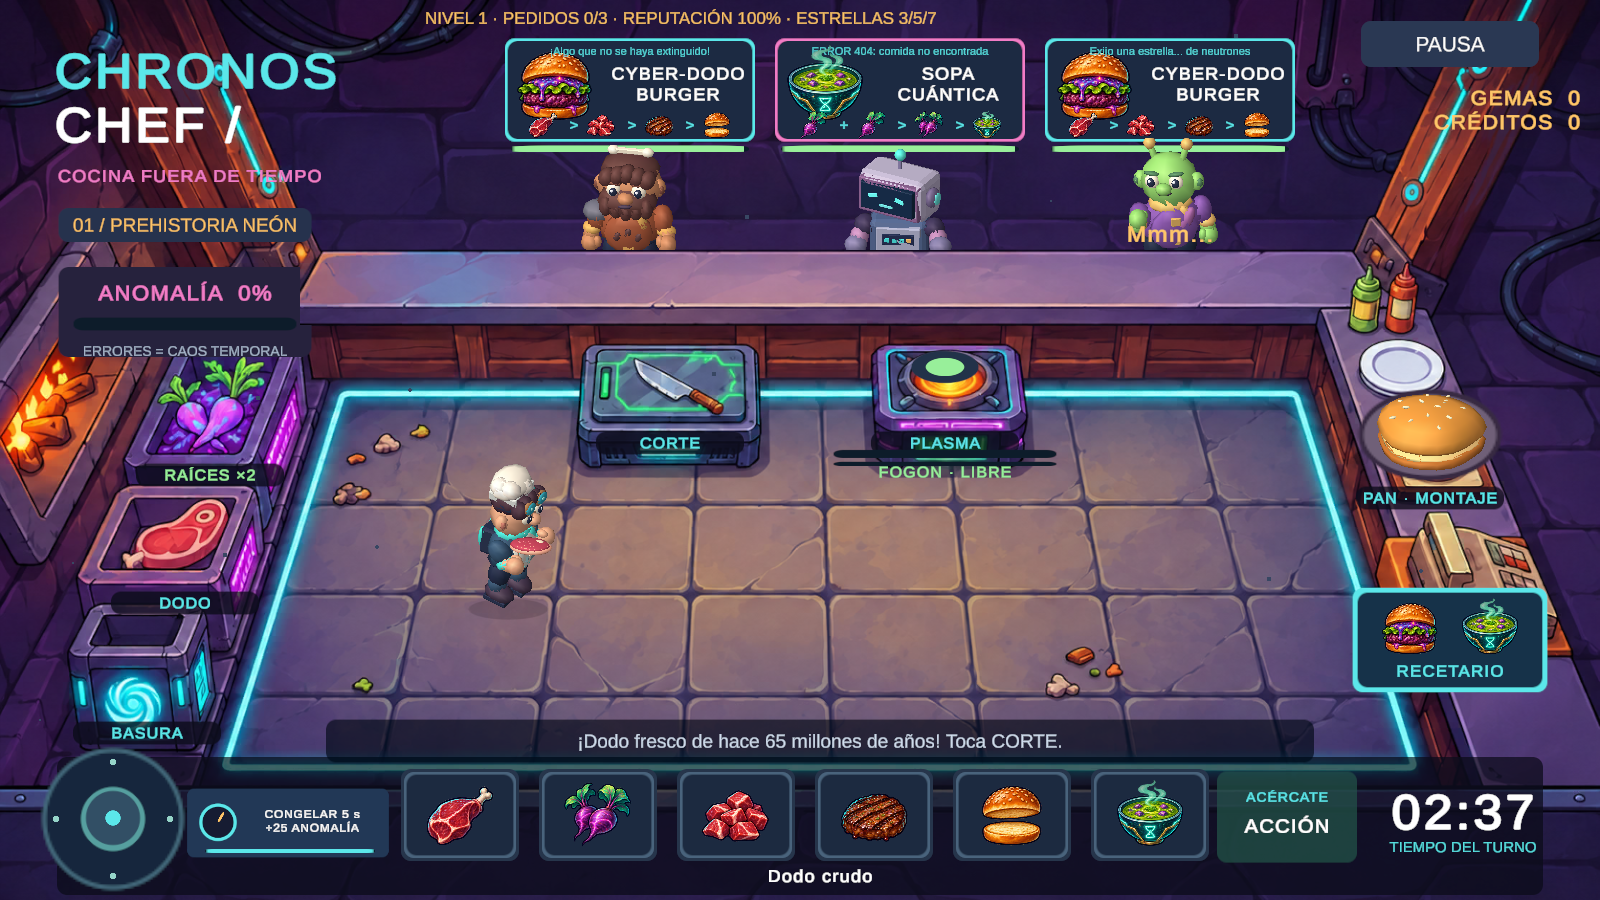
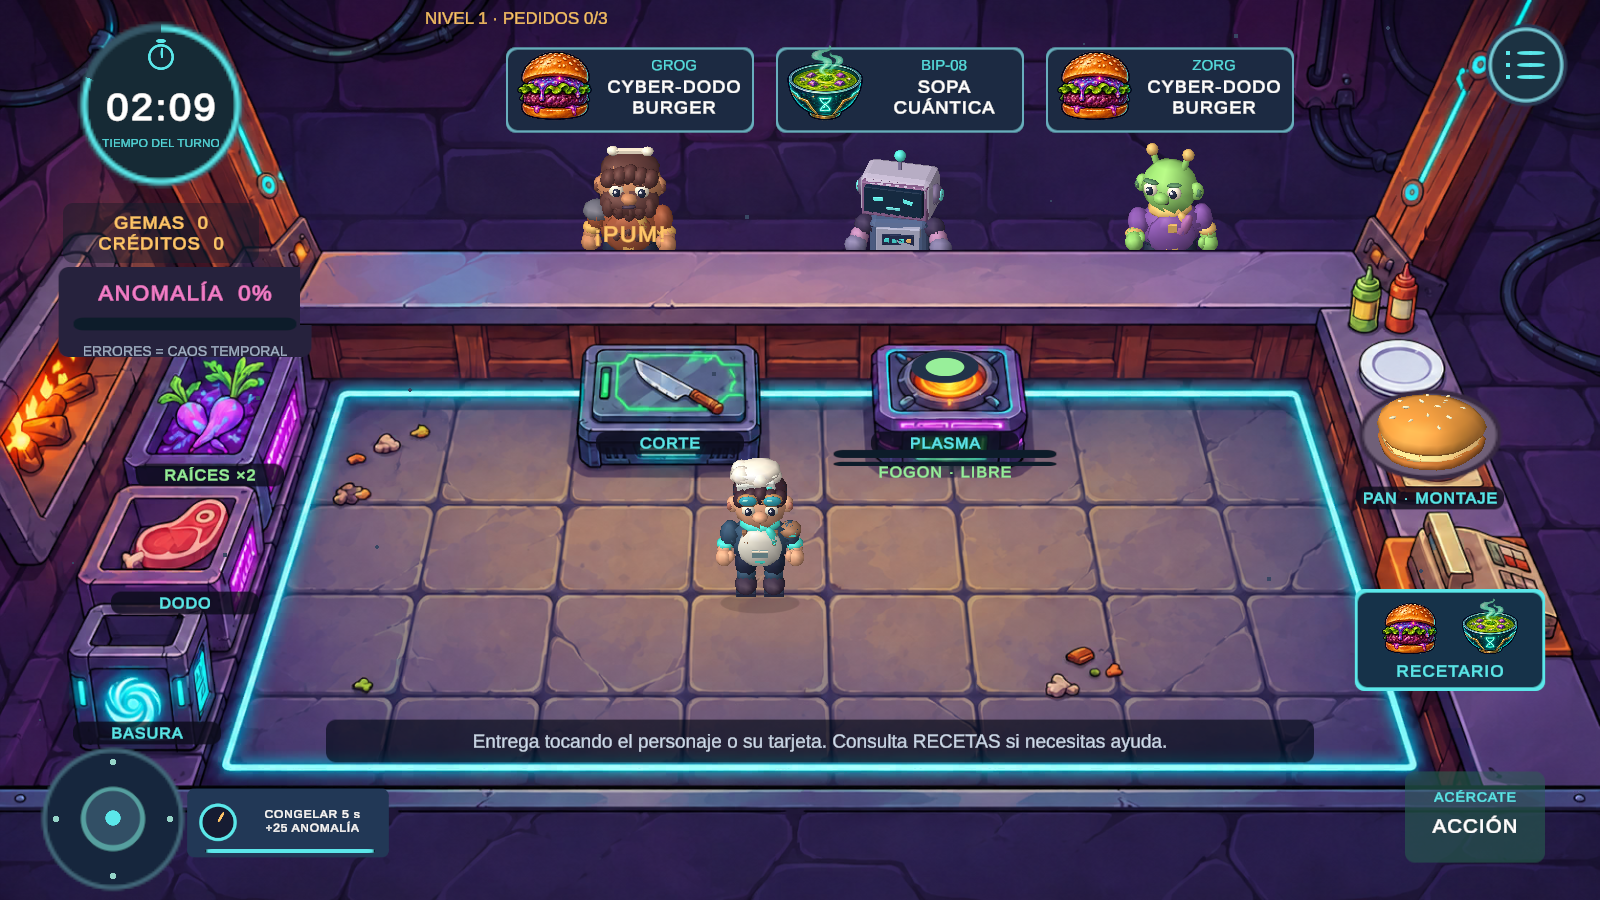
Simplify order cards and rebuild the mobile shift HUD

diff --git a/Assets/ChronosChef/Scripts/KitchenView.Environment.cs b/Assets/ChronosChef/Scripts/KitchenView.Environment.cs
@@ -13,7 +13,7 @@ namespace ChronosChef
         TMP_Text paradoxCaption;
         UnityEngine.UI.Image paradoxRim;
         GameObject paradoxBorder;
-        GameObject[][] ingredientRows;
+        UnityEngine.UI.Image clockSweep;
         void InstallEnvironment()
         {
             if (!environmentArt) return;
@@ -56,7 +56,6 @@ namespace ChronosChef
             var foreground = new GameObject("CounterForeground", typeof(RectTransform), typeof(UnityEngine.UI.RawImage));
             var foregroundRect = foreground.GetComponent<RectTransform>(); foregroundRect.SetParent(stage, false); foregroundRect.anchorMin = foregroundRect.anchorMax = Vector2.zero; foregroundRect.anchoredPosition = new Vector2(835, 612.5f); foregroundRect.sizeDelta = new Vector2(1070, 75);
             var foregroundImage = foreground.GetComponent<UnityEngine.UI.RawImage>(); foregroundImage.texture = environmentArt; foregroundImage.uvRect = new Rect(300f / 1600, 575f / 900, 1070f / 1600, 75f / 900); foregroundImage.raycastTarget = false; counterLayer = foregroundImage;
-            ingredientRows = new GameObject[3][];
             for (int i = 0; i < 3; i++)
             {
                 var card = customerLabels[i].transform.parent;
@@ -66,17 +65,12 @@ namespace ChronosChef
                 var hit = stations[5 + i].GetComponent<RectTransform>(); hit.anchoredPosition = new Vector2(630 + i * 270, 746); hit.sizeDelta = new Vector2(250, 232);
                 customerLabels[i].rectTransform.anchoredPosition = new Vector2(48, 6);
                 speciesLabels[i].rectTransform.anchoredPosition = new Vector2(0, 39); speciesLabels[i].rectTransform.sizeDelta = new Vector2(230, 18);
-                ingredientRows[i] = new GameObject[KitchenRecipe.All.Length];
-                for (int recipe = 0; recipe < ingredientRows[i].Length; recipe++)
-                {
-                    var row = new GameObject("RecipeIngredients" + recipe, typeof(RectTransform)); row.transform.SetParent(card, false); row.GetComponent<RectTransform>().anchoredPosition = new Vector2(0, -35); ingredientRows[i][recipe] = row;
-                    Food[] foods = KitchenRecipe.All[recipe].Ingredients;
-                    for (int item = 0; item < 4; item++)
-                    {
-                        var icon = new GameObject("Step" + item, typeof(RectTransform)).GetComponent<RectTransform>(); icon.SetParent(row.transform, false); icon.anchoredPosition = new Vector2(-87 + item * 58, 0); icon.localScale = Vector3.one * .3f; DrawFood(icon, foods[item]);
-                        if (item < 3) Label(row.transform, item == 0 && recipe == 1 ? "+" : ">", -66 + item * 58, 0, 20, 22, 15, Cyan, FontStyles.Bold);
-                    }
-                }
+                cardRect.sizeDelta = new Vector2(246,83);
+                rim.sizeDelta = new Vector2(250,87);
+                rim.GetComponent<UnityEngine.UI.Image>().color = C("67ADBD");
+                speciesLabels[i].rectTransform.anchoredPosition = new Vector2(44,25);
+                customerLabels[i].rectTransform.anchoredPosition = new Vector2(44,-7);
+                patienceFills[i].transform.parent.gameObject.SetActive(false);
             }
             stoveLabel.rectTransform.anchoredPosition = new Vector2(945, 428); stoveLabel.fontSize = 16;
             cookFill.transform.parent.GetComponent<RectTransform>().anchoredPosition = new Vector2(945, 446);
@@ -89,16 +83,8 @@ namespace ChronosChef
             inventory.rectTransform.anchoredPosition = new Vector2(820, 24); inventory.rectTransform.sizeDelta = new Vector2(740, 30); inventory.fontSize = 18; inventory.alignment = TextAlignmentOptions.Center;
             message.rectTransform.anchoredPosition = new Vector2(820, 159); message.rectTransform.sizeDelta = new Vector2(950, 44); message.fontSize = 19; message.alignment = TextAlignmentOptions.Center;
             Panel(stage, "MessageStrip", 820, 159, 990, 45, new Color(.025f, .04f, .10f, .85f)).SetSiblingIndex(message.transform.GetSiblingIndex());
-            var hotbarFoods = new[] { Food.RawDodo, Food.Roots, Food.ChoppedDodo, Food.CookedDodo, Food.Bread, Food.Soup };
-            int[] actions = { 0, 8, 1, 2, 3, 2 };
-            for (int i = 0; i < 6; i++)
-            {
-                int action = actions[i];
-                var b = Button(stage, "Hotbar" + i, 460 + i * 138, 85, 120, 94, C("25364C"));
-                Panel(b.transform, "IconRim", 0, 0, 114, 88, C("48637B")); Panel(b.transform, "IconFace", 0, 0, 109, 83, C("1A2B41"));
-                var icon = new GameObject("FoodIcon", typeof(RectTransform)).GetComponent<RectTransform>(); icon.SetParent(b.transform, false); icon.localScale = Vector3.one * .7f; DrawFood(icon, hotbarFoods[i]);
-                b.onClick.AddListener(() => game.SelectStation(action));
-            }
+            bottom.GetComponent<UnityEngine.UI.Image>().enabled = false;
+            inventory.gameObject.SetActive(false);
             paradoxBorder = Panel(stage, "ParadoxBadgeRim", 192, 77, 295, 113, Pink).gameObject;
             var face = Panel(stage, "ParadoxBadge", 192, 77, 289, 107, C("331B3D")); paradoxRim = face.GetComponent<UnityEngine.UI.Image>();
             var clock = Dot(face, "ClockFace", -93, 0, 86, Cyan); Dot(clock, "ClockInner", 0, 0, 75, C("DBE8EC"));
@@ -107,9 +93,7 @@ namespace ChronosChef
             var shortHand = Panel(clock, "HourHand", -8, 2, 22, 5, Ink); shortHand.localEulerAngles = new Vector3(0, 0, -45);
             paradoxCaption = Label(face, "PARADOX\nALERT", -34, 0, 170, 85, 27, Color.white, FontStyles.Bold);
             SetParadoxVisible(false);
-            timer.rectTransform.anchoredPosition = new Vector2(1463, 88); timer.rectTransform.sizeDelta = new Vector2(190, 65); timer.fontSize = 51;
-            var timerCaption = stage.Find("Text_TIEMPO DEL TURNO") as RectTransform;
-            if (timerCaption) timerCaption.anchoredPosition = new Vector2(1463,53);
+            InstallShiftClock();
             cloneLabel.rectTransform.anchoredPosition = new Vector2(830, 206);
             // Reference characters should remain above the environment and below the interaction overlays.
             chef.SetAsLastSibling(); clone.SetAsLastSibling(); feedbackLabel.transform.SetAsLastSibling();
@@ -124,10 +108,47 @@ namespace ChronosChef
             clockHand.localEulerAngles = new Vector3(0, 0, -t * (g.CloneRemaining > 0 ? 600 : 40));
             paradoxCaption.text = g.CloneRemaining > 0 ? "PARADOX\n" + Mathf.CeilToInt(g.CloneRemaining) + " s" : "PARADOX\nALERT";
             paradoxRim.color = g.CloneRemaining > 0 ? ReducedMotion ? C("7A2853") : Color.Lerp(C("331B3D"), C("9C275E"), Mathf.Abs(Mathf.Sin(t * 10))) : C("331B3D");
-            for (int i = 0; i < 3; i++)
+            clockSweep.fillAmount = Mathf.Clamp01(g.Remaining / g.LevelRules.Seconds);
+            clockSweep.color = g.Remaining < 20 ? Pink : Cyan;
+        }
+        void InstallShiftClock()
+        {
+            foreach (var title in stage.GetComponentsInChildren<TMP_Text>(true))
+                if (title.transform.parent == stage && (title.text == "CHRONOS" || title.text == "CHEF /" ||
+                    title.text == "COCINA FUERA DE TIEMPO" || title.text.Contains("PREHISTORIA NEÓN")))
+                    title.gameObject.SetActive(false);
+            stage.Find("EraBadge").gameObject.SetActive(false);
+            var dial = Dot(stage,"ShiftClock",161,795,171,C("365666"));
+            dial.SetSiblingIndex(timer.transform.GetSiblingIndex());
+            clockSweep = Dot(dial,"TimeRemaining",0,0,165,Cyan).GetComponent<UnityEngine.UI.Image>();
+            clockSweep.type = UnityEngine.UI.Image.Type.Filled;
+            clockSweep.fillMethod = UnityEngine.UI.Image.FillMethod.Radial360;
+            clockSweep.fillOrigin = (int)UnityEngine.UI.Image.Origin360.Top;
+            Dot(dial,"DialFace",0,0,156,C("142936"));
+            var watch = Dot(dial,"Chronometer",0,48,27,Cyan);
+            Dot(watch,"Inset",0,0,22,C("142936"));
+            Panel(watch,"Hand",1,4,3,11,Cyan);
+            Panel(watch,"Crown",0,16,10,4,Cyan);
+            timer.rectTransform.anchoredPosition = new Vector2(161,793);
+            timer.rectTransform.sizeDelta = new Vector2(151,57);
+            var caption = stage.Find("Text_TIEMPO DEL TURNO").GetComponent<TMP_Text>();
+            caption.rectTransform.anchoredPosition = new Vector2(161,757);
+            caption.fontSize = 12;
+            var balance = Panel(stage,"ShiftBalance",161,667,198,62,new Color(.055f,.10f,.16f,.61f));
+            balance.SetSiblingIndex(wallet.transform.GetSiblingIndex());
+            wallet.rectTransform.anchoredPosition = balance.anchoredPosition;
+            wallet.rectTransform.sizeDelta = new Vector2(183,56);
+            wallet.fontSize = 18; wallet.alignment = TextAlignmentOptions.Center;
+            var menuRect = (RectTransform)pause.transform;
+            menuRect.anchoredPosition = new Vector2(1526,835); menuRect.sizeDelta = new Vector2(86,86);
+            pause.image.sprite = circle; pause.image.type = UnityEngine.UI.Image.Type.Simple;
+            pauseLabel.gameObject.SetActive(false);
+            Dot(menuRect,"Outline",0,0,78,C("76CAD6"));
+            Dot(menuRect,"Face",0,0,72,C("1B3043"));
+            for (int i=-1;i<=1;i++)
             {
-                speciesLabels[i].fontSize = 11;
-                for (int recipe = 0; recipe < ingredientRows[i].Length; recipe++) ingredientRows[i][recipe].SetActive(g.Orders[i] == KitchenRecipe.All[recipe].Dish);
+                Dot(menuRect,"Bullet",-18,i*12,5,Cyan);
+                Panel(menuRect,"Line",5,i*12,29,4,Cyan);
             }
         }
         void SetParadoxVisible(bool visible)

diff --git a/Assets/ChronosChef/Scripts/KitchenView.Expansion.cs b/Assets/ChronosChef/Scripts/KitchenView.Expansion.cs
@@ -26,7 +26,7 @@ namespace ChronosChef
         int shownCarry = -1, shownEra = -1;
         float pop, pulse;
         Vector2 lastChef;
-        readonly string[] speciesNames = { "GROG / CAVERNÍCOLA", "BIP-08 / ROBOT", "ZORG / GOURMET", "REX / RAPTOR" };
+        readonly string[] speciesNames = { "GROG", "BIP-08", "ZORG", "REX" };
 
         void SetupExpansion(KitchenGame owner)
         {
@@ -232,11 +232,11 @@ namespace ChronosChef
             if (g.CloneRemaining > 0) { clone.localEulerAngles = new Vector3(0, 0, Mathf.Sin(clock * 35) * 4); clone.GetComponent<CanvasGroup>().alpha = .35f + Mathf.Abs(Mathf.Sin(clock * 17)) * .35f; }
             for (int i = 0; i < 3; i++)
             {
-                burgers[i].gameObject.SetActive(g.Orders[i] == Food.Burger);
-                bowls[i].gameObject.SetActive(g.Orders[i] == Food.Soup);
-                toastOrders[i].gameObject.SetActive(g.Orders[i] == Food.Toast);
-                speciesLabels[i].text = string.IsNullOrEmpty(g.Speech[i]) ? speciesNames[g.Species[i]] : g.Speech[i];
-                speciesLabels[i].fontSize = environmentArt ? 11 : string.IsNullOrEmpty(g.Speech[i]) ? 14 : 12;
+                burgers[i].gameObject.SetActive(g.Customers[i] && g.Orders[i] == Food.Burger);
+                bowls[i].gameObject.SetActive(g.Customers[i] && g.Orders[i] == Food.Soup);
+                toastOrders[i].gameObject.SetActive(g.Customers[i] && g.Orders[i] == Food.Toast);
+                speciesLabels[i].text = g.Customers[i] ? speciesNames[g.Species[i]] : "";
+                speciesLabels[i].fontSize = 15;
                 speechLabels[i].gameObject.SetActive(false);
                 for (int j = 0; j < 4; j++)
                 {

diff --git a/Assets/ChronosChef/Editor/ChronosLivingPlaytest.cs b/Assets/ChronosChef/Editor/ChronosLivingPlaytest.cs
@@ -95,7 +95,7 @@ public static class ChronosLivingPlaytest
                     game.GoToMenu(); step++; break;
                 case 12:
                     AuditMap();
-                    Assert(Stage.Find("Assembly/BreadSupply").GetComponent<Image>().sprite != Stage.Find("Hotbar0/FoodIcon/FoodIllustration_RawDodo").GetComponent<Image>().sprite, "Bread illustration missing");
+                    Assert(Stage.Find("Assembly/BreadSupply").GetComponent<Image>().sprite != null, "Bread illustration missing");
                     Complete("PASS: automatic cutting frees hands; leave station mid-job; meat persists; occupied board rejects overwrite; manual pickup; mid-cut and prepared-vegetable saves; cut one/two vegetables and cook soup; recipe pauses timer and Entendido resumes directly; customer expression change with bar clipping; ten map portal hit targets and bread art."); break;
             }
         }

diff --git a/Assets/ChronosChef/Scripts/KitchenView.Cast.cs b/Assets/ChronosChef/Scripts/KitchenView.Cast.cs
@@ -35,7 +35,7 @@ namespace ChronosChef
             Dot(knob, "Grip", 0, 1, 57, C("304F65"));
             Dot(knob, "Locator", 0, 1, 16, Cyan);
             drivePad.gameObject.AddComponent<ChefStick>().Bind(game, knob);
-            useButton = Button(stage, "ChefAction", 1287, 83, 142, 93, C("337267"));
+            useButton = Button(stage, "ChefAction", 1475, 83, 142, 93, C("337267"));
             useTarget = Label(useButton.transform, "ACÉRCATE", -69, 20, 138, 26, 14, Cyan, FontStyles.Bold);
             useCaption = Label(useButton.transform, "ACCIÓN", -69, -9, 138, 40, 20, Color.white, FontStyles.Bold);
             useButton.onClick.AddListener(game.UseNearbyStation);

diff --git a/Assets/ChronosChef/Scripts/KitchenView.Living.cs b/Assets/ChronosChef/Scripts/KitchenView.Living.cs
@@ -170,7 +170,7 @@ namespace ChronosChef
                 else if (!ReducedMotion)
                 {
                     float flight = Mathf.SmoothStep(0, 1, Mathf.InverseLerp(.25f, 1, receiptAge));
-                    receipt.anchoredPosition = Vector2.Lerp(receiptStart, new Vector2(1470, 769), flight) + Vector2.up * (Mathf.Sin(flight * Mathf.PI) * 38);
+                    receipt.anchoredPosition = Vector2.Lerp(receiptStart, wallet.rectTransform.anchoredPosition, flight) + Vector2.up * (Mathf.Sin(flight * Mathf.PI) * 38);
                 }
             }
             bool borrowed = g.BorrowRemaining > 0;

diff --git a/Assets/ChronosChef/Scripts/KitchenView.Beta.cs b/Assets/ChronosChef/Scripts/KitchenView.Beta.cs
@@ -85,9 +85,9 @@ namespace ChronosChef
             }
             else
             {
-                timer.fontSize = 51;
+                timer.fontSize = 39;
                 goal.fontSize = 17;
-                goal.text = $"NIVEL {g.Level} · PEDIDOS {g.Served}/{g.Target} · REPUTACIÓN {g.Reputation}% · ESTRELLAS {g.Target}/{g.Target + 2}/{g.Target + 4}";
+                goal.text = $"NIVEL {g.Level} · PEDIDOS {g.Served}/{g.Target}";
             }
             if (environmentArt)
                 for (int i = 0; i < stations.Length; i++)

diff --git a/README.md b/README.md
@@ -20,7 +20,7 @@ El tutorial enseña ambas recetas en doce pasos, señala la estación siguiente 
 - Tostada mutante desde el nivel 3: una RAÍZ → dejar en CORTE → recoger los cubos → PAN → cliente que pida tostada. Puedes montarla mientras otro plato ocupa el fogón.
 - CONGELAR concede cinco segundos de reloj y paciencia detenidos. La cocina sigue funcionando. Cuesta 25 de anomalía y se recarga en 32 segundos de juego.
 - La palanca izquierda mueve a Ares. Al acercarte se ilumina la estación y el botón derecho indica qué puedes usar. En el Editor puedes caminar con WASD o las flechas y usar la estación con E.
-- También puedes tocar una estación o su icono inferior para caminar e interactuar al llegar. Mover la palanca recupera el control manual durante el trayecto.
+- También puedes tocar una estación para caminar e interactuar al llegar. Mover la palanca recupera el control manual durante el trayecto.
 - Toca cuerpo, cabeza o tarjeta del cliente para entregar.
 - La cuchilla trabaja sola. Puedes ir a otra estación y volver con las manos libres. La mesa también corta raíces y conserva el ingrediente al guardar la partida.
 - La comida transportada se muestra en las manos. BASURA descarta ese objeto.
